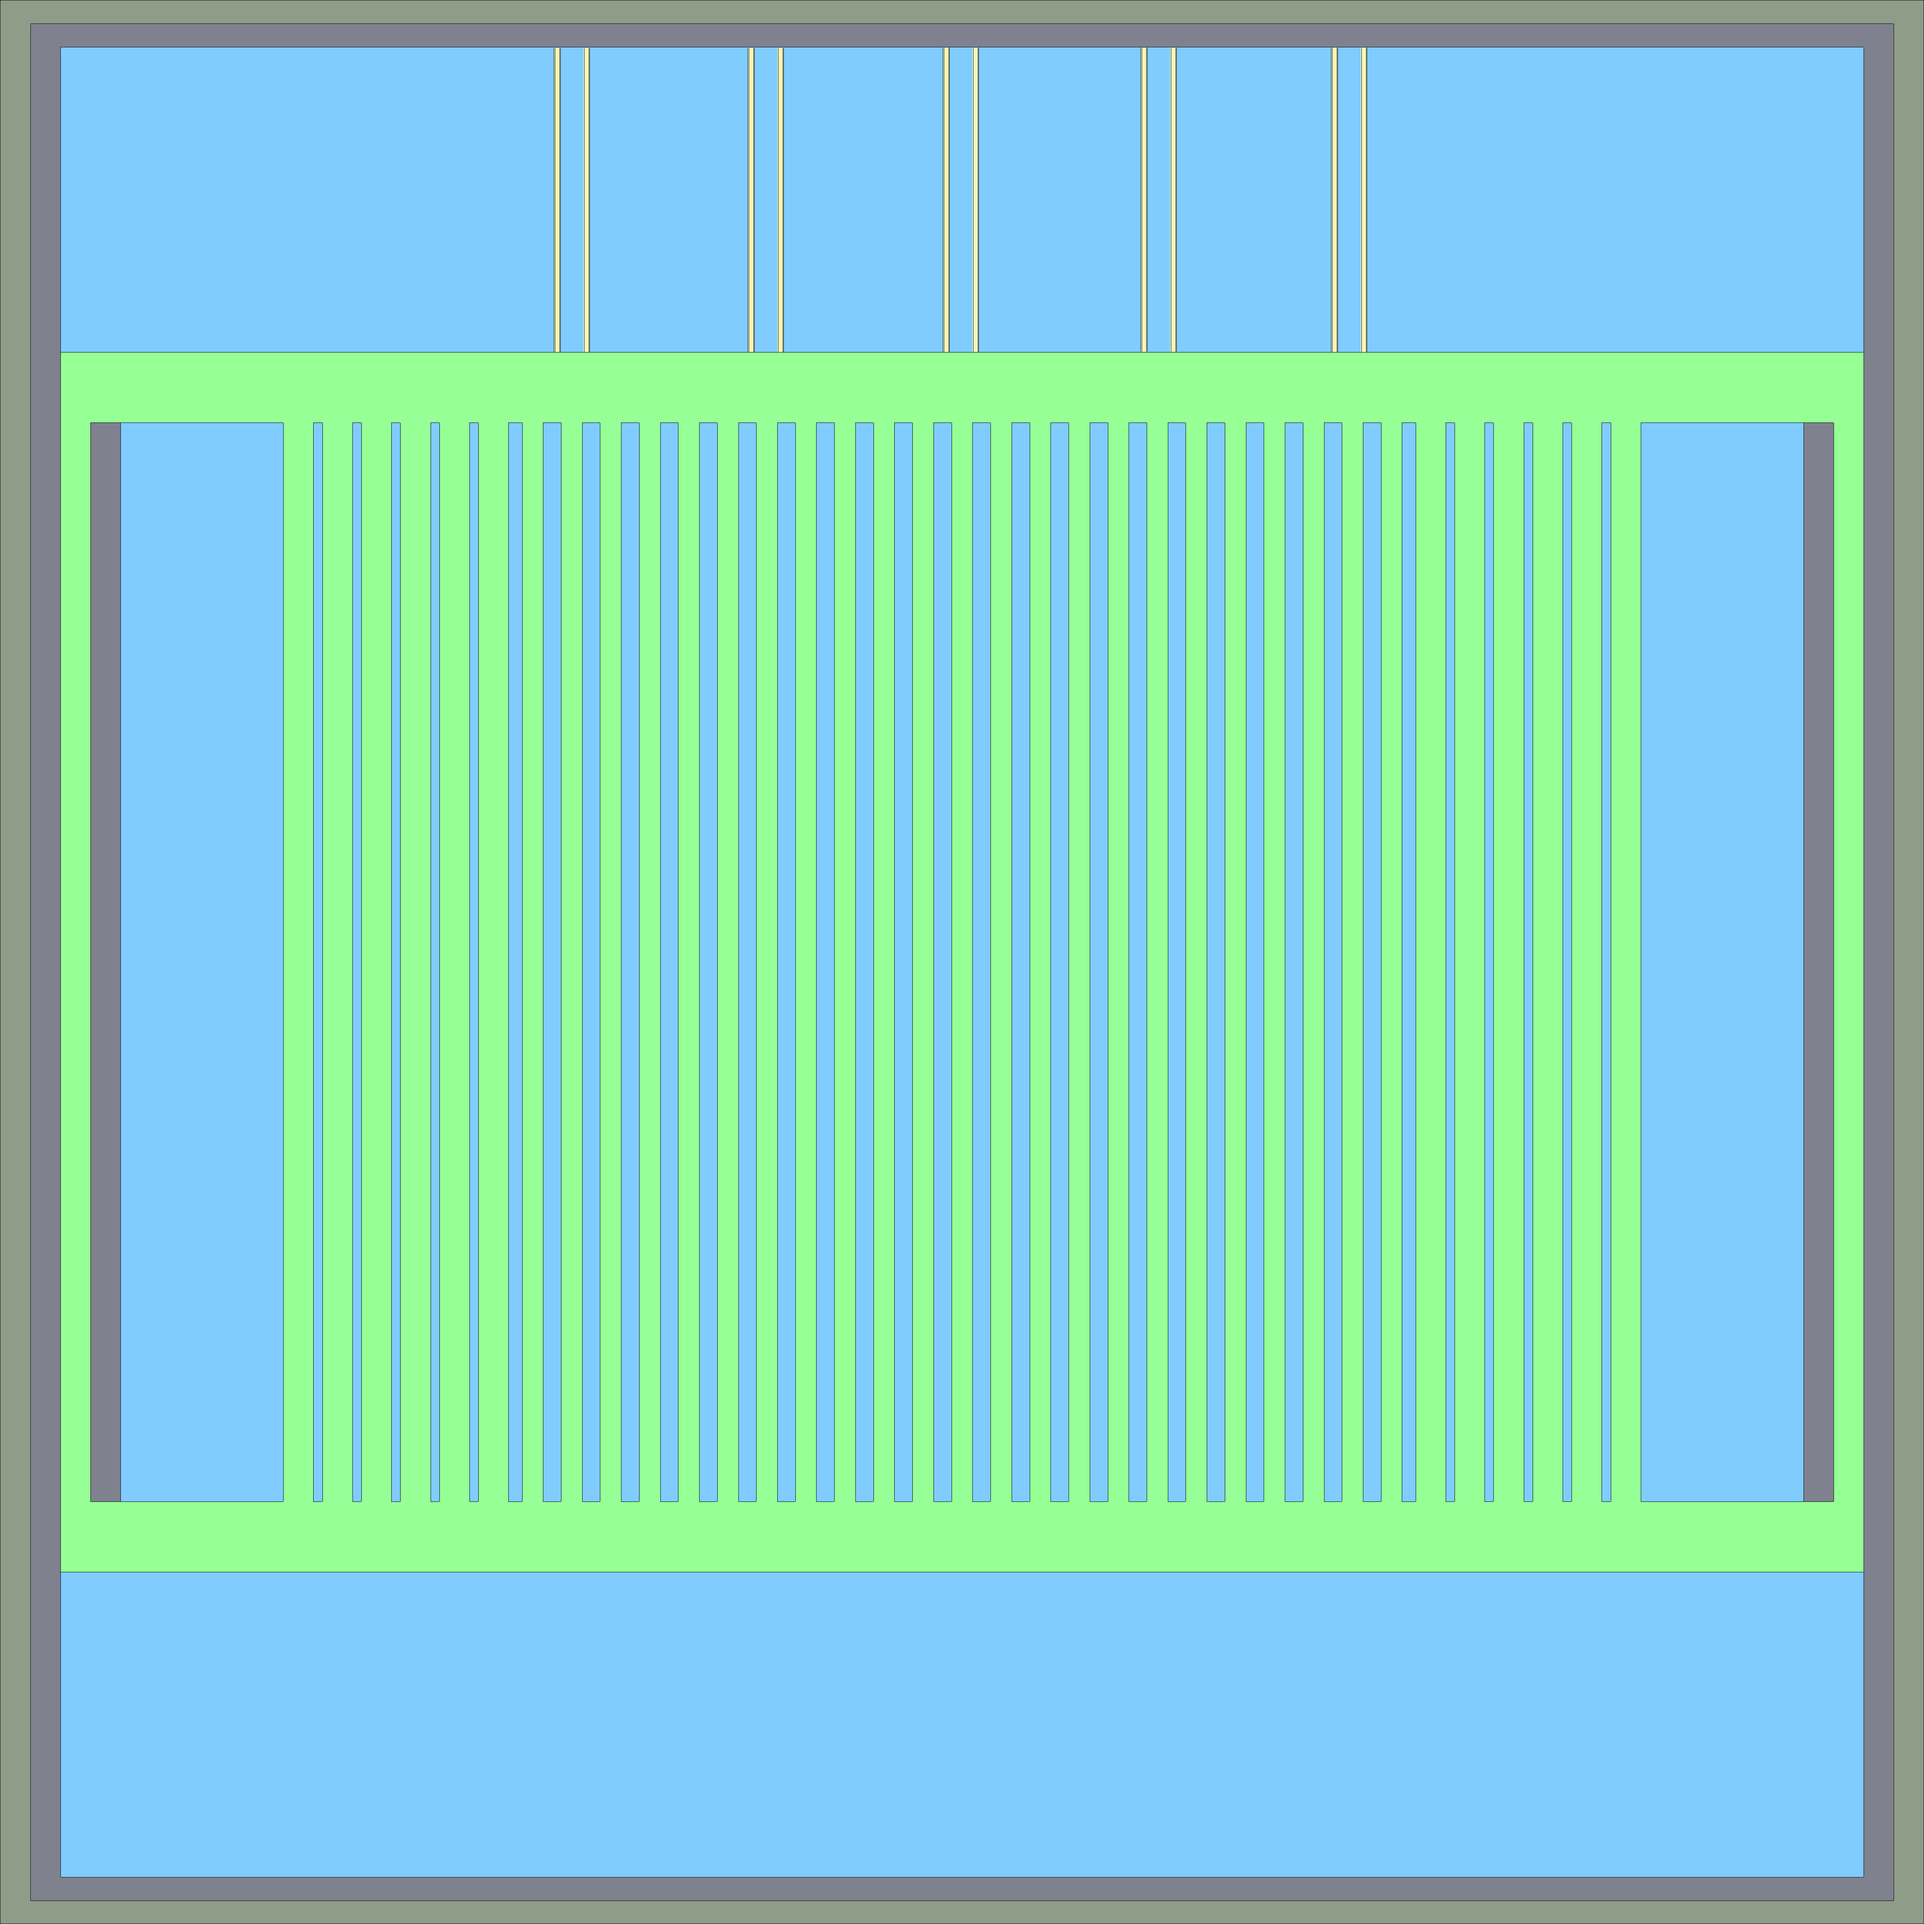
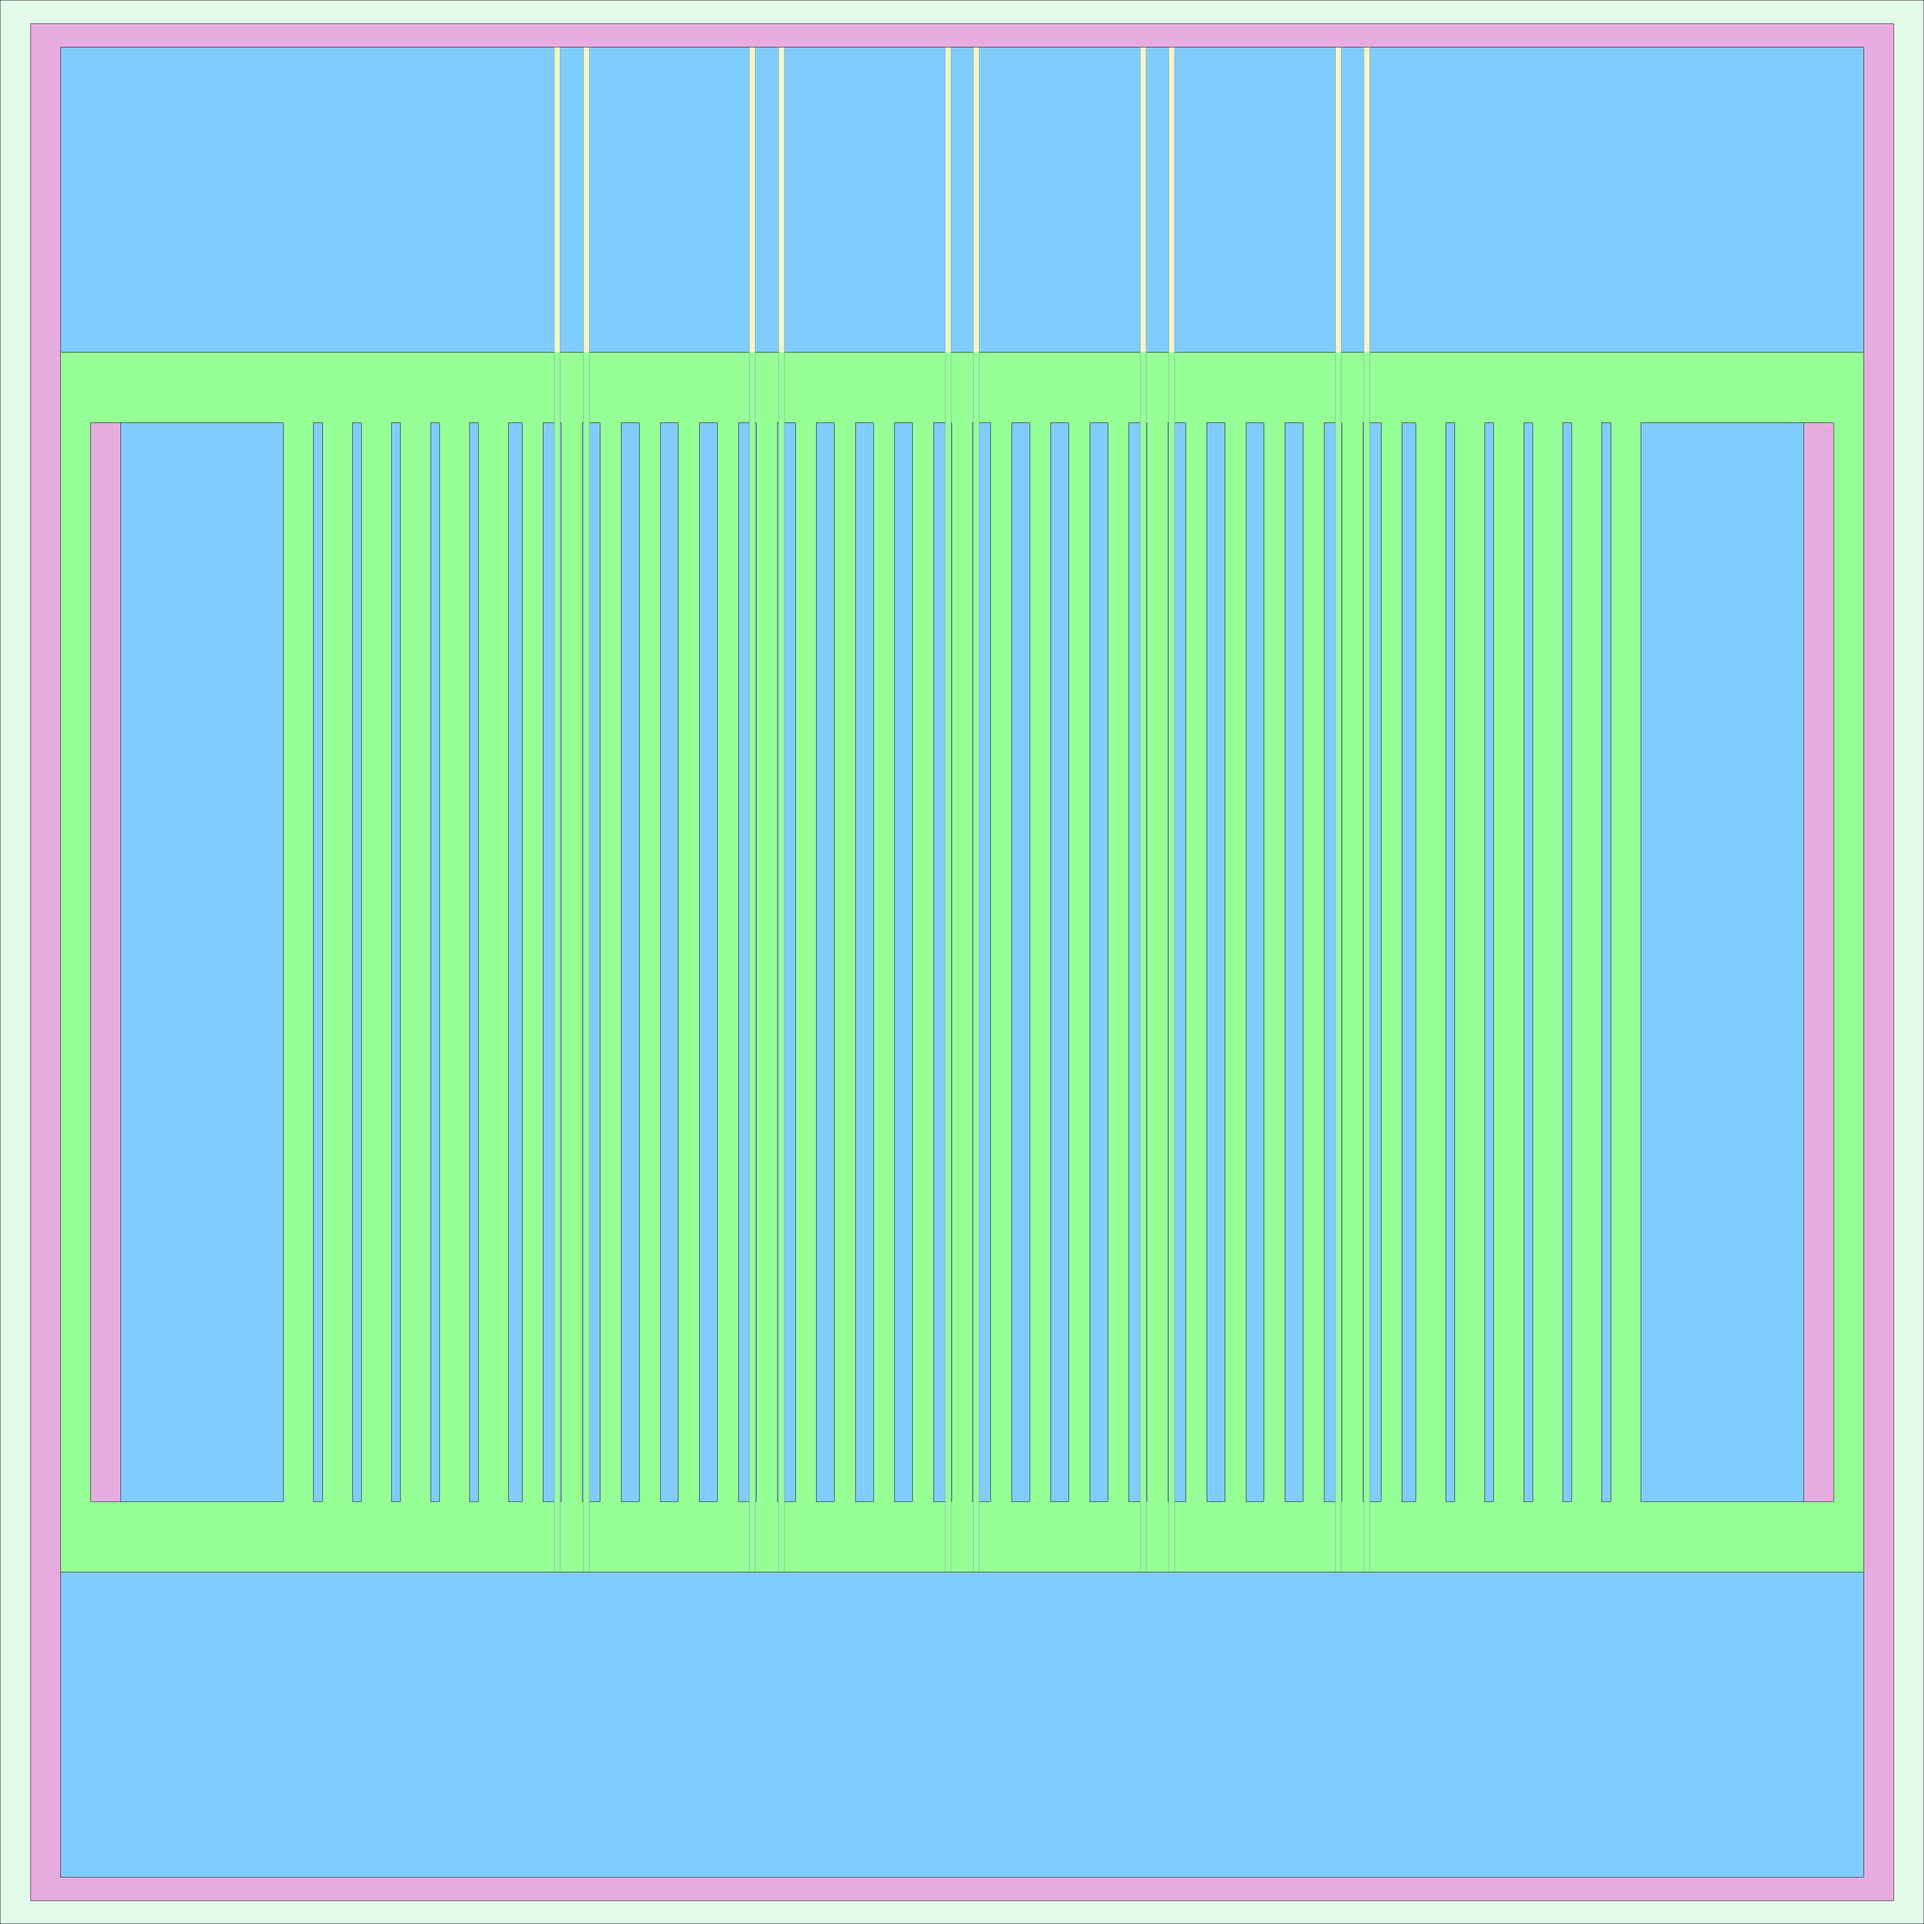
After Andrei's comments in Model Description #6

diff --git a/paper/methods.tex b/paper/methods.tex
@@ -23,8 +23,9 @@ elements from \gls{LWR} \gls{SNF} \cite{de2000scenarios}.
 The density and volume of the fuel salt are 3.3 g/cm$^{3}$ and 52.9 m$^3$, 
 respectively. The liquid fuel salt circulates continuously through the fuel 
 tubes that pierce the graphite hexagonal prisms. The core is surrounded by 
-axial and radial graphite reflectors to minimize the neutron leakage. Finally, 
-the \gls{SD-TMSR} pressure vessel holds all reactor components and is made of 
+axial and radial graphite reflectors to minimize the neutron leakage.
+A 10-cm-thick B$_4$C cylinder surrounds the core to shield against neutrons and heat.
+Finally, the \gls{SD-TMSR} pressure vessel holds all reactor components and is made of 
 a Hastelloy N alloy. The main characteristics of the \gls{SD-TMSR} are 
 summarized in Table~\ref{tab:table1}.
 
@@ -76,19 +77,12 @@ In the present work, five different absorbing materials are considered based on 
 \item gadolinium oxide (Gd$_2$O$_3$);
 \item europium oxide (Eu$_2$O$_3$).
 \end{enumerate}
-Boron carbide (B$_4$C) is widely used in control rods fabrication. Enriching 
-PB$_4$C increases the fraction of highly neutron absorber isotope (i.e. 
-$^{10}$B) and helps to reach the necessary absorptivity. However, issues 
-related to helium gas release through (n,$\alpha$) reactions of $^{10}$B, 
-swelling, melting risk, and high loss of the reactivity worth limit the B$_4$C 
-lifespan \cite{guo2019optimized}. Hafnium and rare earth elements oxides 
-absorb neutrons through (n,$\gamma$) reactions and this limits gas emission.
 
 The control rod is a cylinder with a radius of 0.75 cm and a height of 520 cm. 
 The absorbing material is surrounded by a 0.25-cm-thick cladding made of AIM1 
-(15Cr-15Ni) steel alloy \cite{SERAN2017285} and the rod follower is made of 
-SiC structural material (see Figure~\ref{fig:cr}). A small gap between the 
-cladding and rod follower is considered to facilitate the control rod movement.
+(15Cr-15Ni) steel alloy \cite{SERAN2017285} and the guide tube is made of 
+SiC structural material (see Figure~\ref{fig:cr}). We simulated a small gap between the 
+cladding and guide tube to facilitate the control rod movement.
 
 Since the total quantity and distribution of the control assemblies in the SD-TMSR are unknown, we proposed an original distribution as a starting point of this analysis. We added clusters consist of four control rods to specific graphite hexagonal prisms (elements) in the SD-TMSR core. Every four control rods (cluster) can move together as one group. Figure~\ref{fig:graphite_elemen} and~\ref{fig:graphite_elemen1} demonstrate the plan and axial view of the graphite element with the control rods. The total numbers of graphite elements with control rods are 25: 16 CSD and 9 SSD.
 \begin{figure}[t!]  % replace 't' with 'b' to \centering
@@ -126,7 +120,7 @@ control rods located at the same distance from the fuel channel center.
 	\centering
 	\hspace{+0.65in}
 	\includegraphics[width=\textwidth]{core_25.png}
-	\caption{Distribution of the graphite elements with control rods in the SD-TMSR core.}
+	\caption{Distribution of the graphite elements with control rods in the SD-TMSR core. Green - fuel salt, blue - graphite, pink - B$_4$C, and light-green - vessel (H-alloy).}
 	\label{fig:core_25}
 \end{figure}
 
@@ -136,8 +130,8 @@ In this work, SERPENT-2 version 2.1.31 \cite{leppanen2014serpent} is used to
 perform steady state calculations for the full-core of the SD-TMSR with 
 suggested control rod design. We adopted the ENDF-VII.0 cross section library 
 for all calculations in the present work. The results demonstrate whole-core 
-runs of $12.5\times 10^6$ neutron histories per depletion step. The 
-statistical error in $k_{eff}$ from SERPENT-2 output is equal to $\pm$ $25$ 
+runs of $50,000$ neutrons per cycle, for 50 inactive and 500 active cycles. The 
+statistical error in $k_{eff}$ from SERPENT-2 output is $\leq$ $25$ 
 $pcm$.
 
 The initial calculation state of the SD-TMSR is identified by normal operation 
@@ -152,7 +146,7 @@ worth, and interference effects (shadowing effects) are described below.
 \begin{figure}[t!] % replace 't' with 'b' to \centering
 	\centering
 	\includegraphics[width=\textwidth]{core_26.png}
-	\caption{$XZ$ section of the full-core model of the SD-TMSR, CRs are fully withdrawn.}
+	\caption{$XZ$ view at the midplane of the full-core model of the SD-TMSR, 10 CRs are fully withdrawn.}
 	\label{fig:core_26}
 \end{figure}
 
@@ -220,12 +214,11 @@ fraction of delayed neutrons at i$^{th}$ step. N is the number of steps.
 \end{equation}
 
 Equation~\ref{Equ:5} is used to calculate the differential CRW [\$/cm], where 
-$\Delta H$ is the height change of control rod [cm] before and after 
-insertions.
+$Z$ is the coordinate of the bottom of the control rod.
 
 \begin{equation}
 \label{Equ:5}
-\dfrac{{\partial}{\rho}_{i}}{{\partial{H}}}=\dfrac{1}{{\Delta}{H}}\dfrac{{k_{i}}-{k_{i-1}}}{{{k_{i}}{k_{i-1}}}{{\beta}_{i}}},
+\dfrac{{\partial}{\rho}_{i}}{{\partial{Z}}}=\dfrac{1}{{\Delta}{Z}}\dfrac{{k_{i}}-{k_{i-1}}}{{{k_{i}}{k_{i-1}}}{{\beta}_{i}}},
 \end{equation}
 
 

diff --git a/paper/introduction.tex b/paper/introduction.tex
@@ -52,13 +52,13 @@ The control rod worth and its efficiency to absorb excess positive reactivity is
 Boron carbide (B$_4$C) is commonly used material for the control rods 
 \cite{zhong2019preliminary,steinbruck2010degradation,dunner1984absorber}. 
 However, we may need to enrich the boron isotope ($^{10}$B) to reach 
-the necessary absorption cross section. Additionally, issues related to helium gas release, swelling,
+the necessary absorption cross section. Additionally, issues related to helium gas release through (n,$\alpha$) reactions of $^{10}$B, swelling,
 and high loss of the reactivity worth limit the B$_4$C lifespan 
 \cite{guo2019optimized}. Guo (2019), Gosset (2017), and Rudy (2011) summarized the properties of the 
 potential alternative absorbers for Generation-IV reactors such as 
 hafnium-based materials and rare earth element oxides. These absorbers have 
 high thermal conductivity, good resistance to neutron irradiation, and release 
-almost no gas 
+almost no gas (absorbing neutrons mainly through (n,$\gamma$) reactions)
 \cite{guo2019optimized,gosset2017absorber,konings2011comprehensive}.
 
 The \gls{SD-TMSR} with a thermal power of 2,250 MW$_{th}$ 
